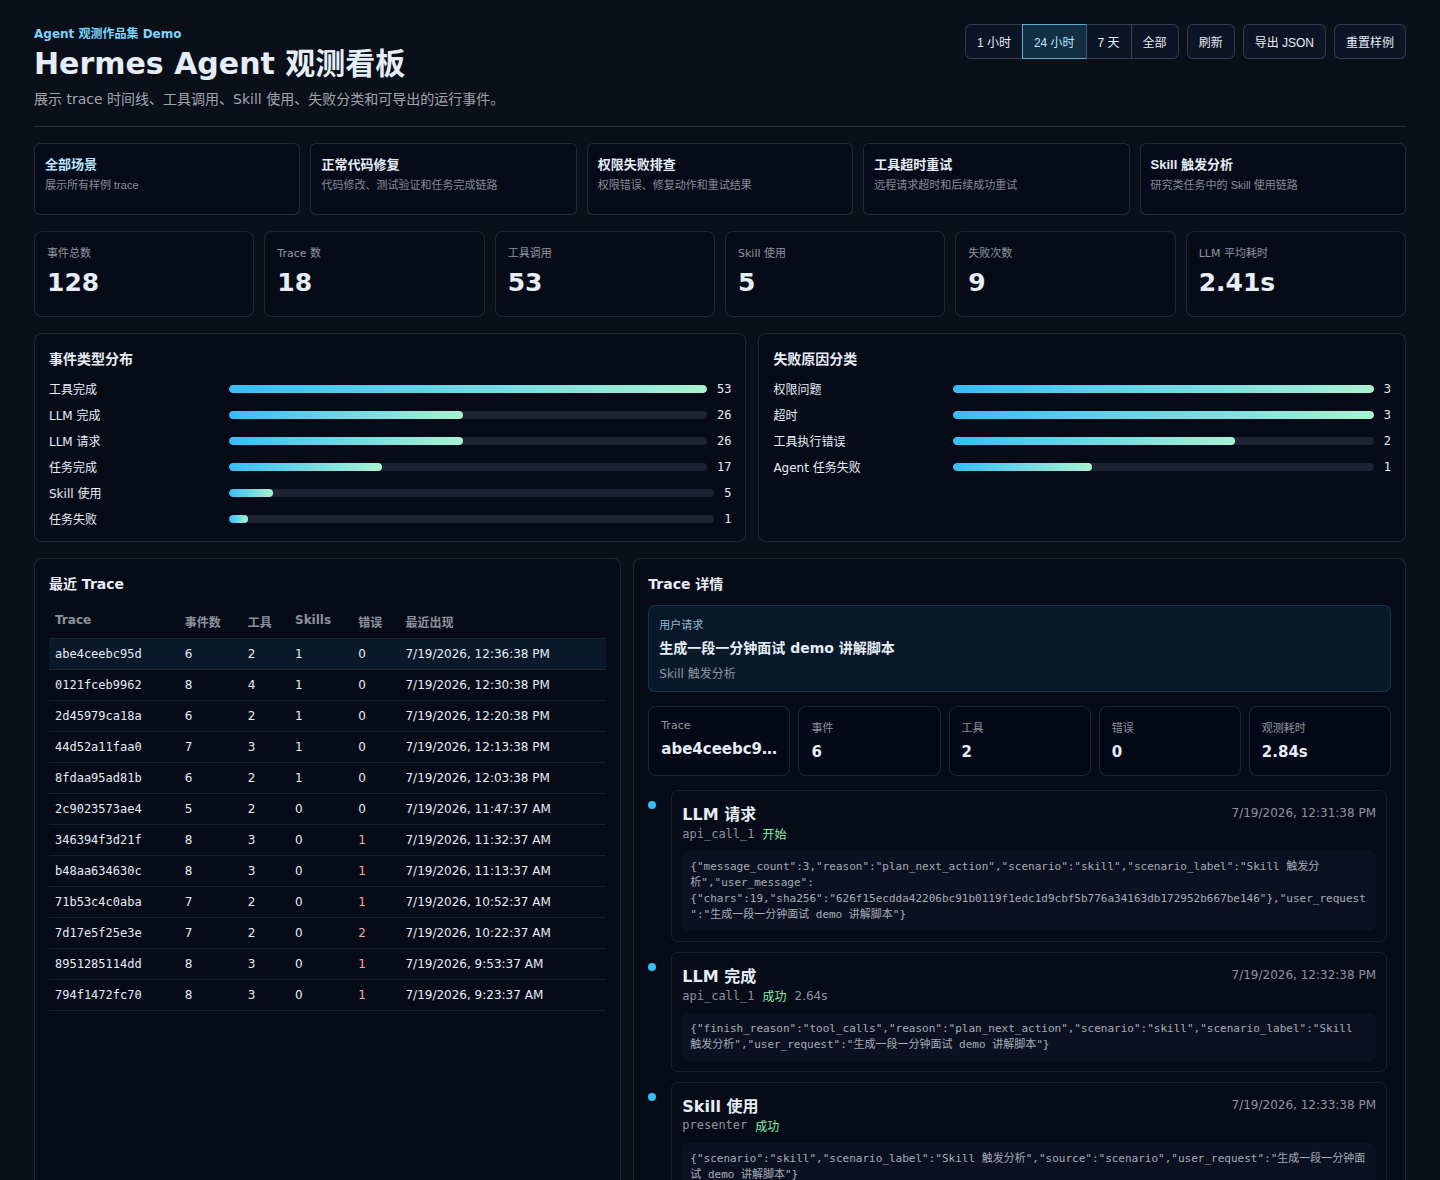
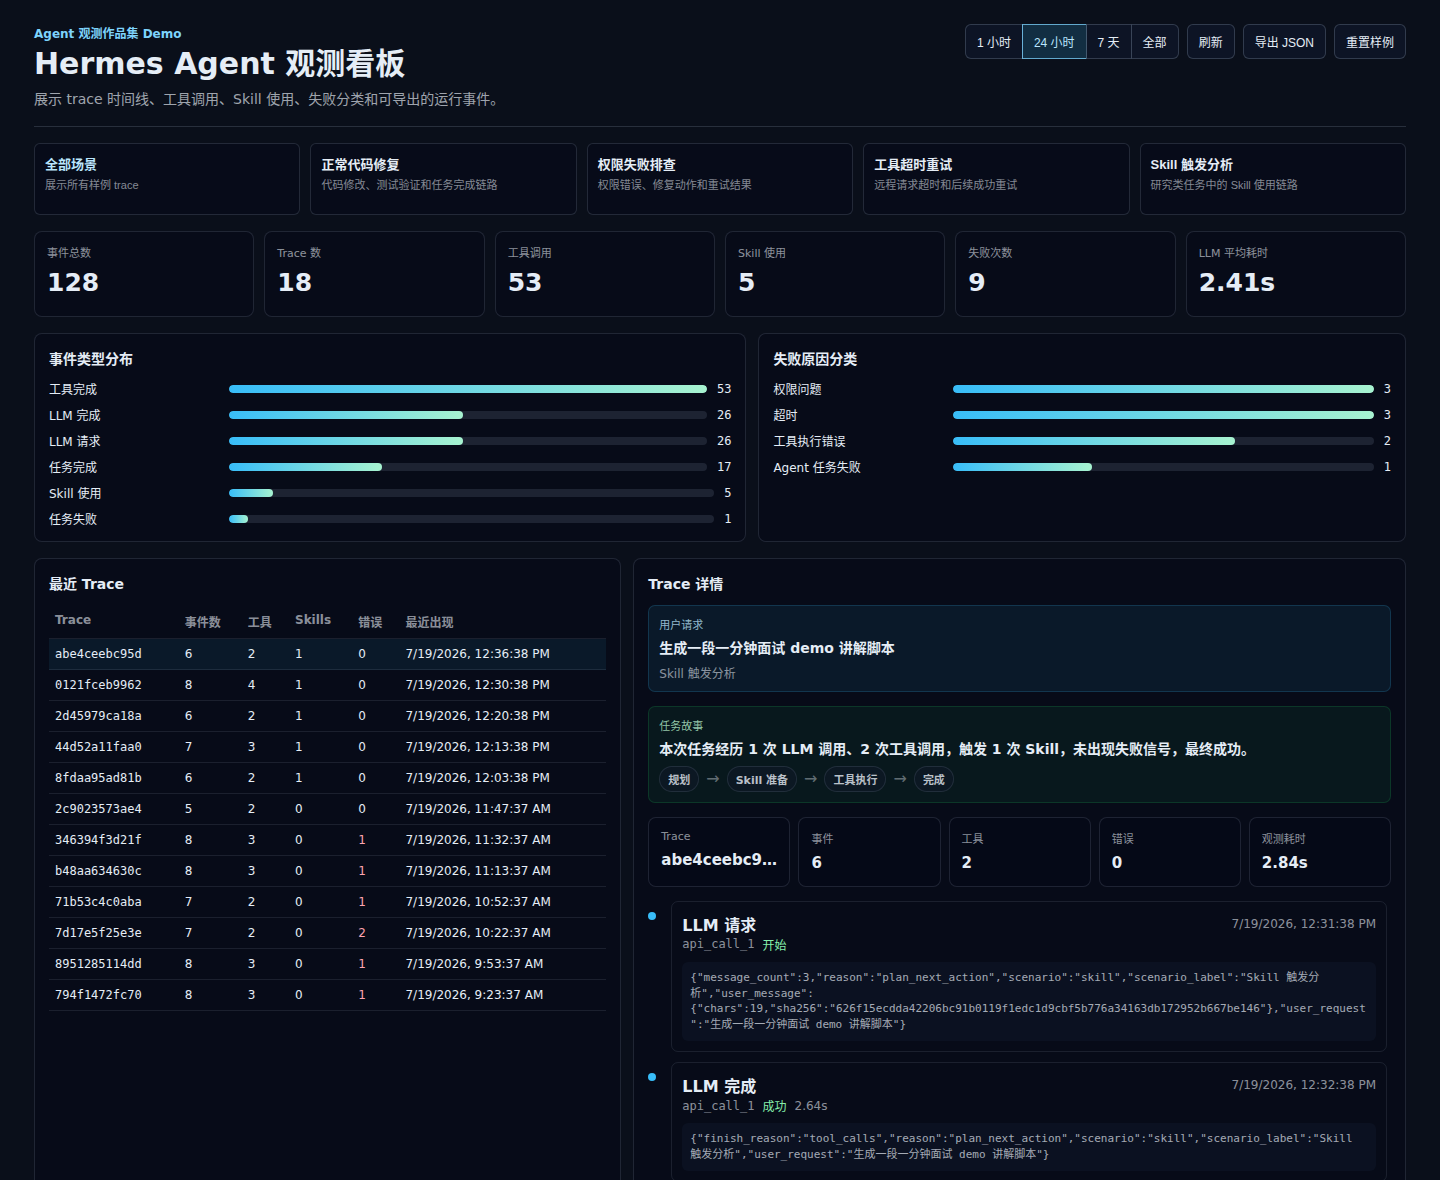
add trace story summaries

Changed region(s): [[0.4375, 0.6102, 0.9688, 0.9153], [0.4688, 0.9153, 0.9688, 1.0]]

diff --git a/dashboard/style.css b/dashboard/style.css
@@ -288,7 +288,8 @@ pre {
   gap: 14px;
 }
 
-.trace-request {
+.trace-request,
+.trace-story {
   background: rgba(56, 189, 248, 0.08);
   border: 1px solid rgba(56, 189, 248, 0.18);
   border-radius: 7px;
@@ -298,12 +299,23 @@ pre {
   padding: 10px;
 }
 
-.trace-request span {
+.trace-story {
+  background: rgba(34, 197, 94, 0.07);
+  border-color: rgba(34, 197, 94, 0.18);
+}
+
+.trace-request span,
+.trace-story span {
   color: rgba(186, 230, 253, 0.78);
   font-size: 11px;
 }
 
-.trace-request strong {
+.trace-story span {
+  color: rgba(187, 247, 208, 0.78);
+}
+
+.trace-request strong,
+.trace-story strong {
   font-size: 14px;
   line-height: 1.45;
 }
@@ -311,6 +323,28 @@ pre {
 .trace-request em {
   color: rgba(226, 232, 240, 0.6);
   font-size: 12px;
+  font-style: normal;
+}
+
+.phase-chain {
+  align-items: center;
+  display: flex;
+  flex-wrap: wrap;
+  gap: 7px;
+}
+
+.phase-chain b {
+  background: rgba(15, 23, 42, 0.5);
+  border: 1px solid rgba(148, 163, 184, 0.16);
+  border-radius: 999px;
+  color: rgba(226, 232, 240, 0.82);
+  font-size: 11px;
+  font-weight: 650;
+  padding: 4px 8px;
+}
+
+.phase-chain i {
+  color: rgba(226, 232, 240, 0.42);
   font-style: normal;
 }
 

diff --git a/dashboard/app.js b/dashboard/app.js
@@ -239,11 +239,17 @@
       return `<div class="empty">选择一条 trace 查看完整时间线。</div>`;
     }
     const summary = detail.summary || {};
+    const story = summary.story || {};
     return `<div class="trace-detail">
       <div class="trace-request">
         <span>用户请求</span>
         <strong>${escapeHtml(summary.user_request || "暂无请求摘要")}</strong>
         ${summary.scenario_label ? `<em>${escapeHtml(summary.scenario_label)}</em>` : ""}
+      </div>
+      <div class="trace-story">
+        <span>任务故事</span>
+        <strong>${escapeHtml(story.summary || "暂无阶段归纳")}</strong>
+        ${story.phases && story.phases.length ? `<div class="phase-chain">${story.phases.map((phase) => `<b>${escapeHtml(phase)}</b>`).join("<i>→</i>")}</div>` : ""}
       </div>
       <div class="trace-summary">
         ${kpi("Trace", shortId(summary.trace_id))}

diff --git a/server/main.py b/server/main.py
@@ -197,6 +197,65 @@ def _first_payload_value(rows: list[dict[str, Any]], key: str) -> str:
     return ""
 
 
+def _build_trace_story(rows: list[dict[str, Any]], failures: list[dict[str, Any]]) -> dict[str, Any]:
+    llm_calls = sum(1 for row in rows if row.get("event_type") == "llm.completed")
+    tool_calls = sum(1 for row in rows if row.get("event_type") == "tool.completed")
+    skill_calls = sum(1 for row in rows if row.get("event_type") == "skill.used")
+    failed_tools = [
+        row
+        for row in rows
+        if row.get("event_type") == "tool.completed" and row.get("status") == "error"
+    ]
+    task_failed = any(row.get("event_type") == "task.failed" for row in rows)
+    task_completed = any(row.get("event_type") == "task.completed" for row in rows)
+    failure_seen = bool(failed_tools or failures)
+
+    phases = ["规划"]
+    if skill_calls:
+        phases.append("Skill 准备")
+    if tool_calls:
+        phases.append("工具执行")
+    if failure_seen:
+        phases.append("失败分析")
+    if failed_tools and _has_success_after_failure(rows):
+        phases.append("重试恢复")
+    phases.append("失败收尾" if task_failed else "完成" if task_completed else "未完成")
+
+    outcome = "最终失败" if task_failed else "最终成功" if task_completed else "尚未完成"
+    retry_text = "，失败后通过后续工具调用恢复" if failed_tools and _has_success_after_failure(rows) else ""
+    skill_text = f"，触发 {skill_calls} 次 Skill" if skill_calls else ""
+    failure_text = f"，出现 {len(failures)} 个失败信号" if failures else "，未出现失败信号"
+    summary = (
+        f"本次任务经历 {llm_calls} 次 LLM 调用、{tool_calls} 次工具调用"
+        f"{skill_text}{failure_text}{retry_text}，{outcome}。"
+    )
+
+    return {
+        "phases": phases,
+        "summary": summary,
+        "outcome": outcome,
+        "llm_calls": llm_calls,
+        "tool_calls": tool_calls,
+        "skill_calls": skill_calls,
+        "failure_signals": len(failures),
+        "recovered_after_failure": bool(failed_tools and _has_success_after_failure(rows)),
+    }
+
+
+def _has_success_after_failure(rows: list[dict[str, Any]]) -> bool:
+    seen_failure = False
+    for row in rows:
+        if row.get("event_type") == "tool.completed" and row.get("status") == "error":
+            seen_failure = True
+        elif (
+            seen_failure
+            and row.get("event_type") == "tool.completed"
+            and row.get("status") == "success"
+        ):
+            return True
+    return False
+
+
 @app.get("/api/overview")
 def overview(range: str = Query("24h"), scenario: str = Query("all")) -> dict[str, Any]:
     where_sql, params = _where_filters(range, scenario)
@@ -358,6 +417,7 @@ def trace_detail(trace_id: str) -> dict[str, Any]:
     for failure in failures:
         failure["failure_category"] = classify_failure(failure)
 
+    story = _build_trace_story(result, failures)
     summary = {
         "trace_id": trace_id,
         "task_id": result[-1].get("task_id") or result[0].get("task_id") or "",
@@ -371,6 +431,7 @@ def trace_detail(trace_id: str) -> dict[str, Any]:
         "observed_duration_ms": sum(int(row["duration_ms"]) for row in result if row.get("duration_ms") is not None),
         "user_request": _first_payload_value(result, "user_request"),
         "scenario_label": _first_payload_value(result, "scenario_label"),
+        "story": story,
     }
     return {"trace_id": trace_id, "summary": summary, "events": result, "failures": failures}
 

diff --git a/tests/test_dashboard_api.py b/tests/test_dashboard_api.py
@@ -45,6 +45,8 @@ def test_trace_detail_returns_timeline(monkeypatch, tmp_path):
     assert detail["events"][0]["created_at"] <= detail["events"][-1]["created_at"]
     assert detail["summary"]["user_request"]
     assert detail["summary"]["scenario_label"]
+    assert detail["summary"]["story"]["summary"]
+    assert "规划" in detail["summary"]["story"]["phases"]
 
 
 def test_range_filter_and_export(monkeypatch, tmp_path):
@@ -74,3 +76,22 @@ def test_scenario_filter_focuses_dashboard(monkeypatch, tmp_path):
     assert permission["totals"]["events"] < all_data["totals"]["events"]
     assert permission["totals"]["traces"] == 4
     assert all(row["task_id"].startswith("task-permission-") for row in permission["traces"])
+
+
+def test_trace_story_detects_recovery_after_tool_failure(monkeypatch, tmp_path):
+    app, _store = fresh_app(monkeypatch, tmp_path)
+    client = TestClient(app)
+    overview = client.get("/api/overview?range=24h&scenario=timeout").json()
+    trace_id = next(
+        row["trace_id"]
+        for row in overview["traces"]
+        if row["task_id"] == "task-timeout-langfuse-export"
+    )
+
+    detail = client.get(f"/api/traces/{trace_id}").json()
+    story = detail["summary"]["story"]
+
+    assert story["recovered_after_failure"] is True
+    assert "失败分析" in story["phases"]
+    assert "重试恢复" in story["phases"]
+    assert "最终成功" in story["summary"]

diff --git a/README.md b/README.md
@@ -39,6 +39,7 @@ flowchart LR
 - 样例场景切换：正常代码修复、权限失败排查、工具超时重试、Skill 触发分析
 - Trace 详情时间线
 - Trace 顶部展示用户请求摘要
+- Trace 阶段归纳和任务故事摘要
 - Tool 性能表
 - Skill 使用表
 - 失败原因分类